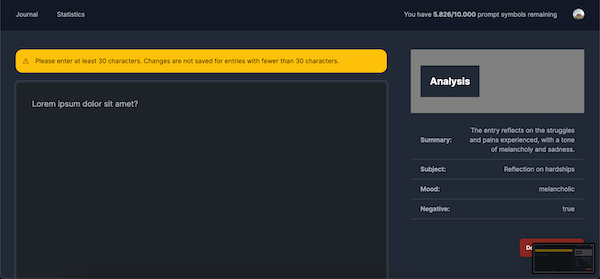
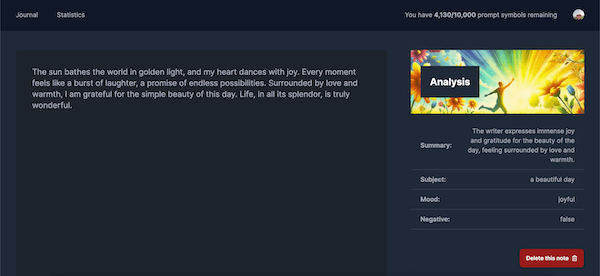
feat: show an ai generated image as mood representation in addition to the mood color

diff --git a/utils/__tests__/helpers.test.ts b/utils/__tests__/helpers.test.ts
@@ -1,5 +1,4 @@
-import { describe, it, expect } from 'vitest';
-import { getExcerpt, formatDate } from '@/utils/helpers';
+import { getExcerpt, formatDate, convertHexToRGBA } from '@/utils/helpers';
 
 describe('getExcerpt Function', () => {
   it('should return the full content if it is less than 100 characters', () => {
@@ -29,5 +28,36 @@ describe('formatDate Function', () => {
     const date = new Date('2023-01-01T00:00:00Z');
     const formattedDate = formatDate(date);
     expect(formattedDate).toMatch(/\d{1,2} \w{3} \d{4}, \d{1,2}:\d{2}/);
+  });
+});
+
+describe('convertHexToRGBA', () => {
+  it('should convert 3-digit hex code to rgba correctly', () => {
+    expect(convertHexToRGBA('#abc', 0.5)).toBe('rgba(170,187,204,0.5)');
+  });
+
+  it('should convert 6-digit hex code to rgba correctly', () => {
+    expect(convertHexToRGBA('#aabbcc', 0.5)).toBe('rgba(170,187,204,0.5)');
+  });
+
+  it('should handle opacity greater than 1 correctly', () => {
+    expect(convertHexToRGBA('#aabbcc', 50)).toBe('rgba(170,187,204,0.5)');
+  });
+
+  it('should handle default opacity correctly', () => {
+    expect(convertHexToRGBA('#aabbcc')).toBe('rgba(170,187,204,1)');
+  });
+
+  it('should handle hex code without # correctly', () => {
+    expect(convertHexToRGBA('aabbcc', 0.5)).toBe('rgba(170,187,204,0.5)');
+  });
+
+  it('should handle opacity of 1 correctly', () => {
+    expect(convertHexToRGBA('#aabbcc', 1)).toBe('rgba(170,187,204,1)');
+  });
+
+  it('should handle invalid opacity values correctly', () => {
+    expect(convertHexToRGBA('#aabbcc', 101)).toBe('rgba(170,187,204,1)');
+    expect(convertHexToRGBA('#aabbcc', -1)).toBe('rgba(170,187,204,-1)');
   });
 });

diff --git a/components/Editor/AnalysisSidebar.tsx b/components/Editor/AnalysisSidebar.tsx
@@ -3,6 +3,7 @@
 import { AppRouterInstance } from 'next/dist/shared/lib/app-router-context.shared-runtime';
 import { deleteEntry } from '@/utils/api';
 import { FaRegTrashAlt } from 'react-icons/fa';
+import { convertHexToRGBA } from '@/utils/helpers';
 
 function AnalysisSidebar({
   entryId,
@@ -29,10 +30,21 @@ function AnalysisSidebar({
     { label: 'Negative', value: negative },
   ];
 
+  const analysisBackground = convertHexToRGBA(color, 0.25);
+  const analysisImage = negative
+    ? "bg-[url('/analysis/negative.jpg')]"
+    : "bg-[url('/analysis/positive.jpg')]";
+
   return (
     <>
-      <div className="px-6 py-10" style={{ backgroundColor: color }}>
-        <h2 className="w-fit bg-gray-800 p-6 text-2xl font-bold text-white">Analysis</h2>
+      <div className={`relative px-6 py-10 ${analysisImage}`}>
+        <h2 className="relative z-10 w-fit bg-gray-800 p-6 text-2xl font-bold text-white">
+          Analysis
+        </h2>
+        <div
+          className="absolute left-0 top-0 h-full w-full"
+          style={{ background: analysisBackground }}
+        ></div>
       </div>
       <ul className="mt-5">
         {analysisData.map((item) => (

diff --git a/utils/helpers.ts b/utils/helpers.ts
@@ -10,3 +10,23 @@ export const formatDate = (date: Date): string => {
     timeZone: userTimezone,
   }).format(date);
 };
+
+export const convertHexToRGBA = (_hex: string, _opacity: number = 1) => {
+  let opacity = _opacity;
+  let hex = _hex.replace('#', '');
+
+  if (hex.length === 3) {
+    hex = `${hex[0]}${hex[0]}${hex[1]}${hex[1]}${hex[2]}${hex[2]}`;
+  }
+
+  const r = parseInt(hex.substring(0, 2), 16);
+  const g = parseInt(hex.substring(2, 4), 16);
+  const b = parseInt(hex.substring(4, 6), 16);
+
+  /* Backward compatibility for whole number based opacity values. */
+  if (opacity > 1 && opacity <= 100) {
+    opacity = opacity / 100;
+  } else if (opacity > 100) opacity = 1;
+
+  return `rgba(${r},${g},${b},${opacity})`;
+};

diff --git a/app/page.tsx b/app/page.tsx
@@ -5,6 +5,7 @@ const Home = async () => {
   const { userId } = await auth();
 
   let href = userId ? '/journal' : '/new-user';
+  let buttonLabel = userId ? 'Go to Journal' : 'Get Started';
 
   return (
     <div className="bg-slate-550 flex min-h-svh items-center justify-center p-10 text-white">
@@ -19,7 +20,9 @@ const Home = async () => {
         </p>
         <div>
           <Link href={href}>
-            <button className="rounded-lg bg-blue-600 px-4 py-4 text-xl">Get started</button>
+            <button className="btn btn-lg bg-blue-600 text-white hover:bg-blue-800">
+              {buttonLabel}
+            </button>
           </Link>
         </div>
       </div>

diff --git a/app/__tests__/page.test.tsx b/app/__tests__/page.test.tsx
@@ -19,7 +19,7 @@ describe('Home', () => {
     render(await Home());
 
     await waitFor(() => {
-      const linkElement = screen.getByRole('link', { name: /get started/i });
+      const linkElement = screen.getByRole('link', { name: /go to journal/i });
       expect(linkElement).toHaveAttribute('href', '/journal');
     });
   });

diff --git a/README.md b/README.md
@@ -6,7 +6,9 @@ This demo application, built with NextJS, TypeScript, Tailwind, Clerk, Prisma, a
 ## Project Description
 
 ![Project Screenshot 1](./project-preview-01.png)
+
 ![Project Screenshot 2](./project-preview-02.png)
+
 ![Project Screenshot 2](./project-preview-03.png)
 
 NextJS OpenAI Integration Demo is designed to showcase the integration of various modern web technologies to create an AI-powered mood analysis tool.
